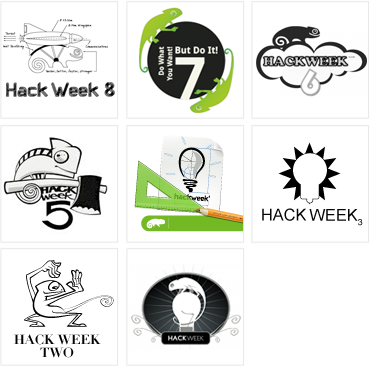
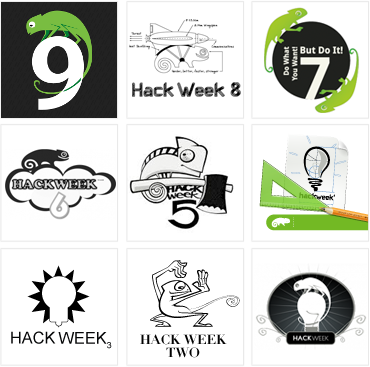
Work in the changes from gh-pages

diff --git a/app/assets/stylesheets/hackweek9.css.scss b/app/assets/stylesheets/hackweek9.css.scss
@@ -1,4 +1,4 @@
-@import url(http://fonts.googleapis.com/css?family=Roboto:400,100,300,400italic,500,500italic,700,700italic,900,900italic|Droid+Sans:400,700|Cutive+Mono|Abril+Fatface);
+@import url(https://fonts.googleapis.com/css?family=Roboto:400,100,300,400italic,500,500italic,700,700italic,900,900italic|Droid+Sans:400,700|Cutive+Mono|Abril+Fatface);
 html {
     margin: 0px;
     width: 100%;
@@ -27,7 +27,7 @@ span:hover{
 .page-size {
     width: 100%;
     height: 100%;
-    min-width: 1150px; 
+    min-width: 960px; 
 }
 .bolder{
     font-weight: 900;
@@ -188,6 +188,7 @@ span:hover{
     float: left;
     margin-top: -132px;
     position: relative;
+    visibility: hidden;
 }
 #pay-off{
     background-color: #D4DF4C;
@@ -1259,3 +1260,98 @@ span:hover{
 }
 
 }
+
+#hackweek10{
+    width: 100%;
+    position: inherit;
+    top: 40%;
+    margin: 0
+}
+#hackweek10 img[src*="hackweek-logo-10"]{
+    width: 65%;
+    display: inline-block;
+    position: absolute;
+    left: 5%
+}
+
+#hackweek10 img[src*="dates-hw-10"]{
+    width: 20%;
+    display: inline-block;
+    vertical-align: middle;
+    position: absolute;
+    right: 0;
+    margin: -7% 0 0 0
+}
+#hackweek10 #dates-hw-10{
+    visibility: hidden;
+    margin: 5% 0;
+    position: relative;
+    width: 100%
+}
+#dates-hw-10 .green,
+#dates-hw-10 .pink,
+#dates-hw-10 .blue{
+    color: #ffffff;
+    font-size: 1.8em;
+    padding: 11px 45px;
+    margin: 10px 0;
+    border-radius: 4px;
+    font-weight: 300;
+    position: relative;
+    display: block;
+    box-sizing: border-box;
+    transition: width 1.5s;
+    -webkit-transition: width 1.5s; /* Safari */
+}
+#dates-hw-10 .green:hover,
+#dates-hw-10 .pink:hover,
+#dates-hw-10 .blue:hover{
+    width:100%;
+}
+#dates-hw-10 .green{
+    background: #61b01c;
+    text-align: right;
+    width: 70%;
+}
+#dates-hw-10 .pink{
+    background: #b0346b;
+    width: 80%;
+    margin: 0 0 0 auto;
+    text-align: left;
+}
+#dates-hw-10 .blue{
+    background: #3495b5;
+    text-align: right;
+    width: 65%
+}
+#dates-hw-10 .place{
+    font-weight: 700;
+}
+#dates-hw-10 .place:before{
+    content: " : "
+}
+
+
+@media screen and (max-width: 1050px){
+    #hackweek10 img[src*="hackweek-logo-10"]{
+        width: 90%;
+        position: static;
+        margin: auto
+    }
+    #hackweek10 img[src*="hackweek-logo-10"]:after{
+        content: "";
+        clear: both;
+    }
+    #hackweek10 img[src*="dates-hw-10"]{
+        visibility: hidden;
+    }
+    #hackweek10 #dates-hw-10{
+        visibility: visible;
+    }
+    #hackweek10{
+        top:25%;
+        text-align: center;
+    }
+
+}
+
